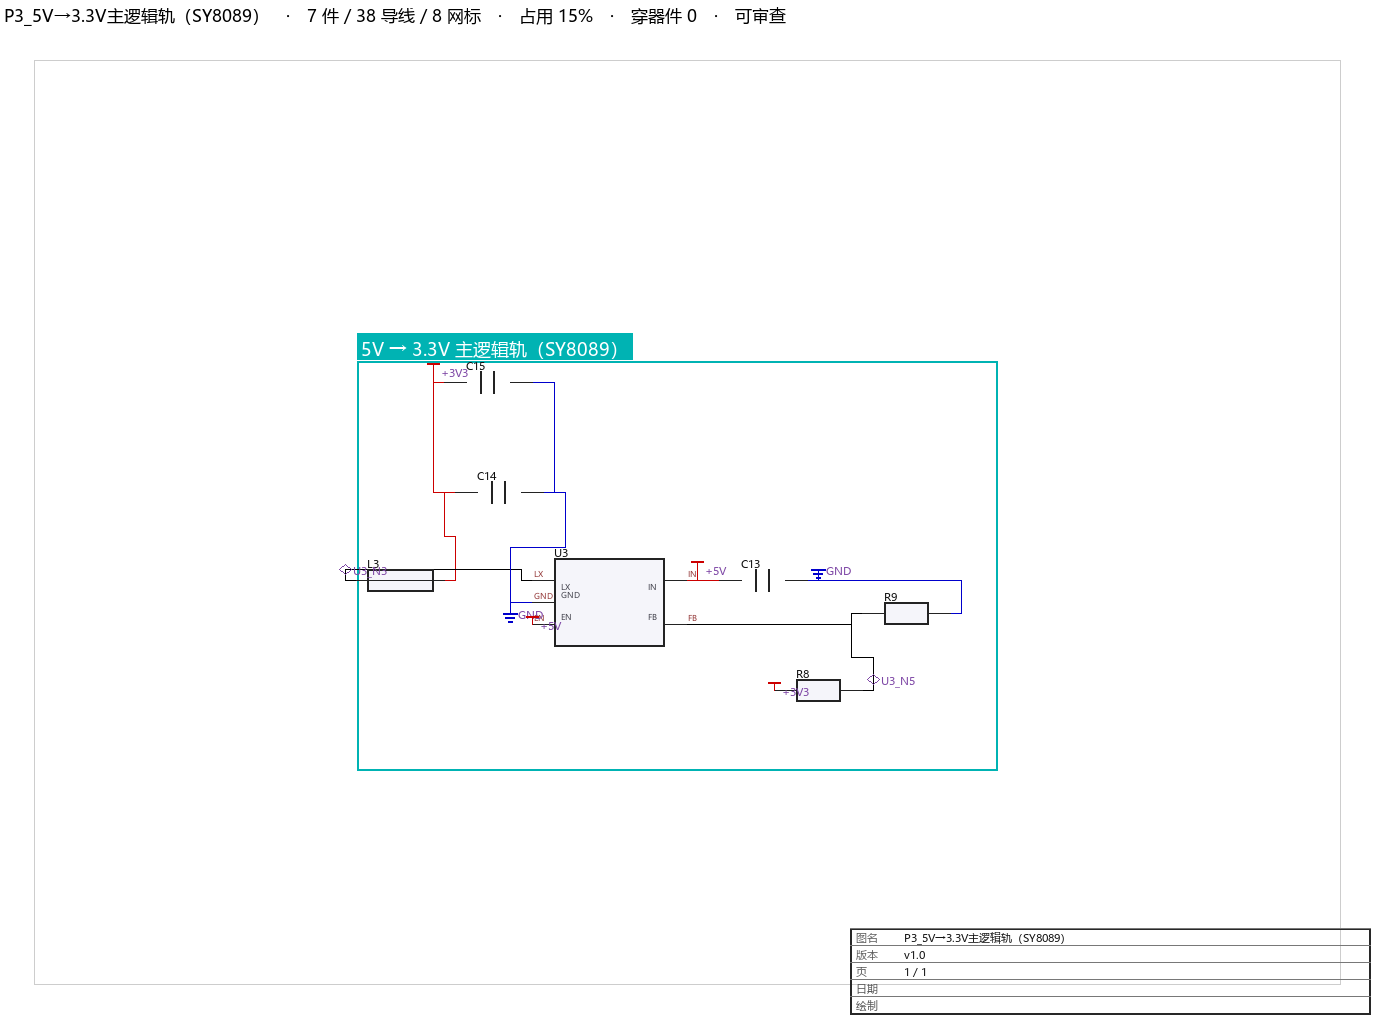
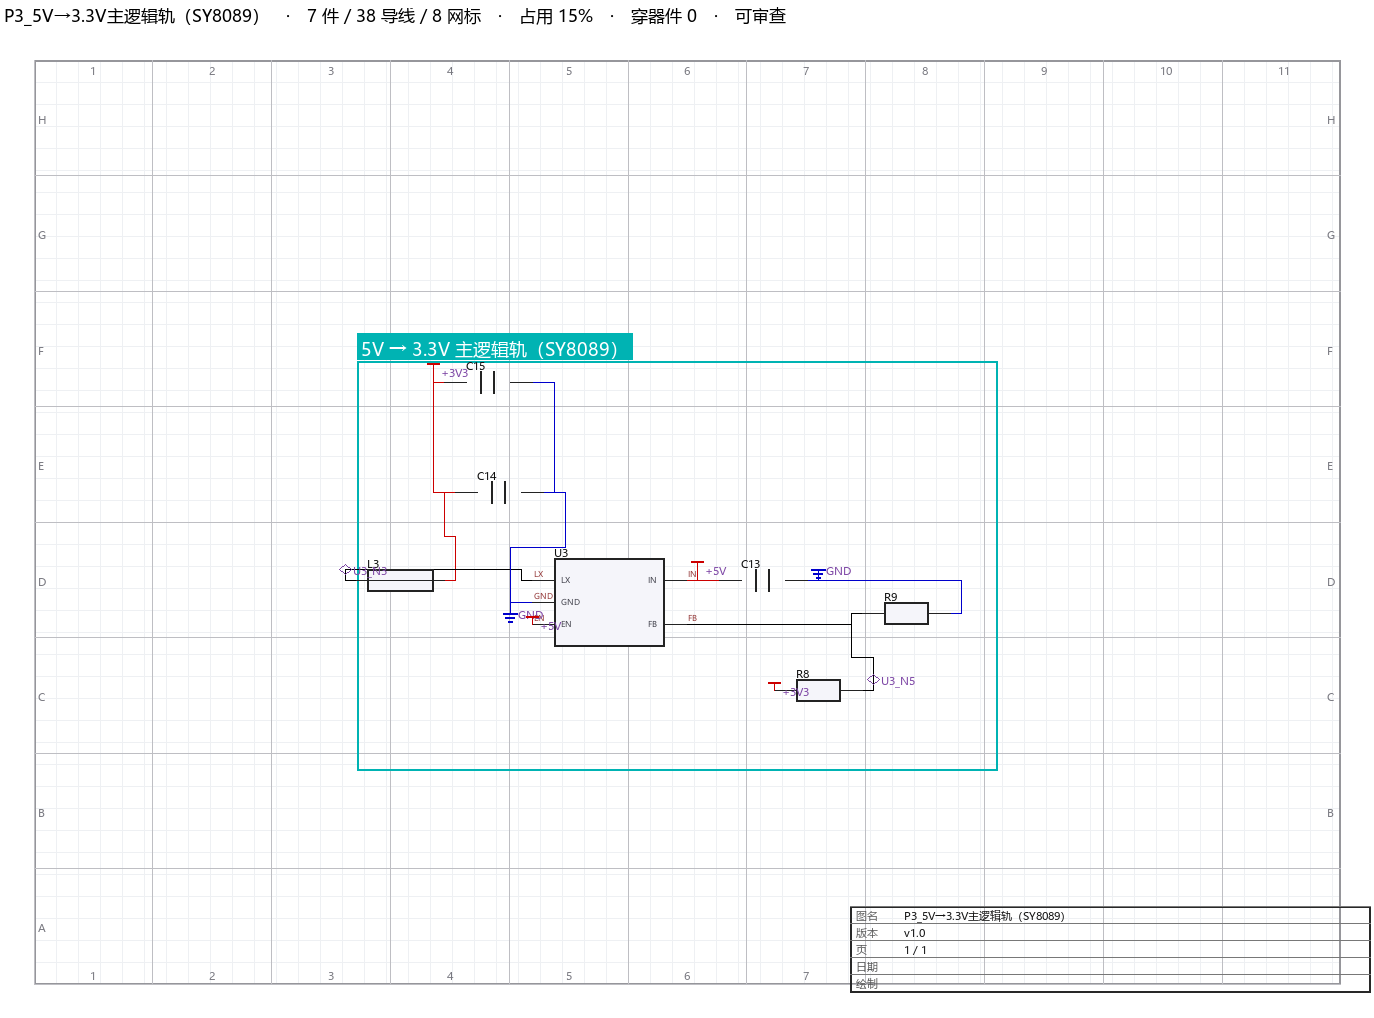
the sheet itself now looks like a drawing sheet: grid, rulers, and a title block that does not overlap them
Last round drew symbols; this round draws the sheet. A light grid at the interval the style tokens specify, an outer border with column numbers along the top and bottom and row
letters down both sides, and pin names aligned to a fixed inset per edge instead of drifting with each pin.

Two overlaps only showed up when I looked at the render. The title block sat directly on the bottom border, so the ruler numbers 8 through 11 were printed through the
table headers; it now lifts clear of the ruler band and ruler numbers falling inside the block's span are skipped. The right-hand row letter was printed on top of the title
block for the same reason and is now suppressed there.

Neither was reported by any checker. That is now the third round in a row where looking at the output found what the criteria could not, which is the honest limit of
criteria: they falsify known defect classes, they do not tell you whether a drawing looks like a drawing.

One test is new for a specific reason. test_render_is_deterministic renders the same input twice and requires identical hashes. Last round I used 'the image hash did not
change' as proof that a change had no effect - that evidence is only meaningful if rendering is deterministic, so it is now asserted instead of assumed.

Six tests pin the sheet: the grid reads the tokens, rulers exist for both axes, the title block clears the bottom ruler, side letters avoid the title block, pin names align
[…]

Changed region(s): [[0.6114, 0.8831, 1.0, 1.0], [0.3974, 0.5786, 0.4279, 0.609]]

diff --git a/easycirq/scripts/sch_layout_review.py b/easycirq/scripts/sch_layout_review.py
@@ -296,12 +296,15 @@ def draw_symbol(d, px, ref, box, pins, f_tiny, f_small, body_edge, body_fill):
                 qx, qy = q["x"], q["y"]
                 tx = min(max(qx, x1), x2)
                 ty = min(max(qy, y1), y2)
-                ix = tx + (3.0 if tx <= cx else -3.0)
-                iy = ty + (3.0 if ty <= cy else -3.0)
+                # 引脚名/号**对齐成列**：名字贴固定内缩列，号贴固定外偏列，
+                # 不随引脚 jitter（否则一列字看起来是歪的）
+                inset = 3.0
+                ix = x1 + inset if side == "L" else (x2 - inset if side == "R" else tx)
+                iy = y1 + inset if side == "B" else (y2 - inset if side == "T" else ty)
                 gx, gy = px(ix, iy)
                 if show_name and q["name"]:
                     tw = d.textlength(q["name"], font=f_tiny)
-                    d.text((gx - (tw if ix > cx else 0), gy - 6), q["name"],
+                    d.text((gx if side == "L" else gx - tw, gy - 6), q["name"],
                            fill=(70, 70, 80), font=f_tiny)
                 if q["number"]:
                     ox, oy = px(qx, qy)
@@ -365,7 +368,54 @@ def render(doc, parts, wires, flags, modules, page_name, out_path, q):
         # EasyEDA 原理图是 y-UP，图片是 y-DOWN → 翻转
         return (pad + (x - minx) * scale, pad + 26 + (maxy - y) * scale)
 
-    d.rectangle([px(minx, maxy), px(maxx, miny)], outline=THEME["sheet"], width=1)
+    # ── 网格底纹：每 10 raw 一条，浅到不影响读图 ────────────────────
+    grid_raw = float(((tokens.get("sheet") or {}).get("grid_mil") or 10))
+    if grid_raw <= 0:
+        grid_raw = 10.0
+    grid_col = (238, 240, 243)
+    gx = minx
+    while gx <= maxx + 1e-6:
+        d.line([px(gx, miny), px(gx, maxy)], fill=grid_col, width=1)
+        gx += grid_raw
+    gy = miny
+    while gy <= maxy + 1e-6:
+        d.line([px(minx, gy), px(maxx, gy)], fill=grid_col, width=1)
+        gy += grid_raw
+
+    # ── 图纸边框 + 行列标尺（A/B/C… 与 1/2/3…）──────────────────────
+    d.rectangle([px(minx, maxy), px(maxx, miny)], outline=(150, 150, 155), width=2)
+    sheet_w = maxx - minx
+    sheet_h = maxy - miny
+    cells_x = max(1, int(sheet_w // 50))
+    cells_y = max(1, int(sheet_h // 50))
+    # 图签水平范围（与下方图签公式保持一致，供标尺避让）
+    tb_left = w - int(min(w * 0.42, 520)) - pad
+    tb_right = w - pad
+    for i in range(cells_x):
+        x0 = minx + sheet_w * i / cells_x
+        x1 = minx + sheet_w * (i + 1) / cells_x
+        d.line([px(x0, miny), px(x0, maxy)], fill=(190, 190, 195), width=1)
+        cx0 = px((x0 + x1) / 2, maxy)[0]
+        d.text((cx0 - 3, px(x0, maxy)[1] + 3), str(i + 1), fill=(120, 120, 128),
+               font=f_small)
+        # 图签会盖住右下角一段底部标尺 —— 落在它范围内的数字直接不画，
+        # 免得和表头文字叠在一起
+        if not (tb_left <= cx0 <= tb_right):
+            d.text((cx0 - 3, px(x0, miny)[1] - 16), str(i + 1),
+                   fill=(120, 120, 128), font=f_small)
+    for j in range(cells_y):
+        y0 = miny + sheet_h * j / cells_y
+        y1 = miny + sheet_h * (j + 1) / cells_y
+        d.line([px(minx, y0), px(maxx, y0)], fill=(190, 190, 195), width=1)
+        cy0 = px(minx, (y0 + y1) / 2)[1]
+        letter = chr(ord("A") + j % 26)
+        d.text((px(minx, y0)[0] + 4, cy0 - 6), letter, fill=(120, 120, 128),
+               font=f_small)
+        # 右侧行标若落在图签纵向范围内就不画，免得压在表头上
+        tb_top = h - 86 - pad - 22
+        if cy0 < tb_top - 4:
+            d.text((px(maxx, y0)[0] - 14, cy0 - 6), letter, fill=(120, 120, 128),
+                   font=f_small)
 
     # 模块框 + **色块标题**（基准图的视觉语言：大字号区名放在框角）
     zone_font = font(max(13, min(18, int(typo.get("zone_title", {}).get("max", 16)))))
@@ -445,7 +495,9 @@ def render(doc, parts, wires, flags, modules, page_name, out_path, q):
     # 这里只写**已知**信息；不知道的留空，不编造。
     tb_w = int(min(w * 0.42, 520))
     tb_h = 86
-    x0, y0 = w - tb_w - pad, h - tb_h - pad
+    # 底部有标尺带，图签要让开它（实测压住过 8/9/10/11 这些数字）
+    ruler_band = 22
+    x0, y0 = w - tb_w - pad, h - tb_h - pad - ruler_band
     d.rectangle([x0, y0, x0 + tb_w, y0 + tb_h], outline=(40, 40, 40), width=2)
     rows = [
         ("图名", page_name or "（未命名）"),

diff --git a/tests/test_preview_sheet.py b/tests/test_preview_sheet.py
@@ -1,0 +1,72 @@
+"""图纸语言（网格/标尺/图签避让）的回归测试。
+
+基准图的图纸特征：浅网格、外框 + 行列标尺、右下角图签。
+本轮补上，并踩到两处重叠：图签压底部标尺、右侧行标压图签。
+这些测试钉住"不许再压"。
+"""
+import pathlib
+import sys
+
+import pytest
+
+ROOT = pathlib.Path(__file__).resolve().parent.parent
+sys.path.insert(0, str(ROOT / "easycirq" / "scripts"))
+import sch_layout_review as R  # noqa: E402
+
+SRC = ROOT / "easycirq" / "scripts" / "sch_layout_review.py"
+
+
+def test_grid_uses_style_tokens():
+    """网格间距来自 tokens 的 sheet.grid_mil，不硬编码另一套。"""
+    s = SRC.read_text(encoding="utf-8")
+    assert "grid_mil" in s, "网格没有读 tokens"
+    assert "grid_raw" in s
+
+
+def test_rulers_exist_for_columns_and_rows():
+    s = SRC.read_text(encoding="utf-8")
+    assert "cells_x" in s and "cells_y" in s, "缺行列标尺"
+    assert 'ord("A")' in s, "行标不是字母"
+
+
+def test_title_block_clears_bottom_ruler():
+    """图签要让开底部标尺带（实测压住过 8/9/10/11）。"""
+    s = SRC.read_text(encoding="utf-8")
+    assert "ruler_band" in s, "图签没有为标尺让位"
+    assert "tb_left" in s and "tb_right" in s, "底部标尺没有按图签范围避让"
+
+
+def test_side_letters_avoid_title_block():
+    """右侧行标不许压在图签上。"""
+    s = SRC.read_text(encoding="utf-8")
+    assert "tb_top" in s, "行标没有按图签范围避让"
+
+
+def test_pin_names_align_into_columns():
+    """引脚名对齐成列（按边固定内缩），不随引脚 jitter。"""
+    s = SRC.read_text(encoding="utf-8")
+    assert "inset = 3.0" in s
+    assert 'side == "L"' in s and 'side == "R"' in s
+
+
+def test_render_is_deterministic():
+    """同样的输入必须画出同样的图（否则哈希不能当证据）。"""
+    comp = ROOT / "reports" / "hard-board" / "board2" / "composition-M3-placed.json"
+    if not comp.is_file():
+        pytest.skip("没有排版稿")
+    import hashlib
+    import json
+    import tempfile
+    doc = json.loads(comp.read_text(encoding="utf-8"))
+    parts, wires, flags, modules = R.extract(doc)
+    sheet = doc["sheet"]
+    q = R.quality(parts, wires, sheet)
+    hashes = []
+    for _ in range(2):
+        with tempfile.TemporaryDirectory() as d:
+            out = pathlib.Path(d) / "x.png"
+            R.render(doc, parts, wires, flags, modules, "P", out, q)
+            if not out.is_file():
+                pytest.skip("渲染不可用（缺 Pillow）")
+            hashes.append(hashlib.sha256(out.read_bytes()).hexdigest())
+    assert hashes[0] == hashes[1], "同一输入两次渲染不一致"

diff --git a/reports/hard-board/board1/friction.md b/reports/hard-board/board1/friction.md
@@ -3007,3 +3007,49 @@ D1/D2 是二极管；L1 是电感；J1/J2 是连接器；+5V 是横杠、GND 是
 
 `extract_pins` 不改原数据、方框前缀清单正确、三种专属画法都在、
 分边按最近边、密度阈值存在、电源/地是标准符号。
+
+
+---
+
+## #66 补上图纸语言：网格、行列标尺、引脚列对齐
+
+上轮补了符号，本轮补**图纸本身的样子**。基准图的图纸特征有三样我都没有：
+浅网格、外框 + 行列标尺（A/B/C… 与 1/2/3…）、右下角图签（图签上轮已加）。
+
+### 改了什么
+
+| 项 | 来源 | 实现 |
+|---|---|---|
+| 浅网格 | tokens `sheet.grid_mil = 10` | 每 10 raw 一条，颜色 (238,240,243)，不干扰读图 |
+| 外框 + 行列标尺 | 基准图 | 外框加粗；列 1..N 上下、行 A..H 左右各标一次 |
+| 引脚名/号对齐成列 | 基准图 | 名字按边**固定内缩 3 raw**，不再随引脚 jitter |
+
+### 又踩到两处"画出来才看得见"的重叠
+
+| 缺陷 | 现象 | 修法 |
+|---|---|---|
+| 图签压底部标尺 | 底部的 8/9/10/11 直接画在表头上 | 图签上移 22 px 让开标尺带；落在图签范围内的标尺数字不画 |
+| 右侧行标压图签 | 字母 A 画在表头里 | 行标的 y 落在图签范围就不画 |
+
+**这两处都不是检查器报的，是看出来的。** 又一次印证：判据只能证伪已知类型，
+图纸"像不像"必须靠眼睛。
+
+### 顺手加的确定性测试
+
+`test_render_is_deterministic`：同一输入两次渲染必须得到同一哈希。
+理由很实在——上一轮我用"图片哈希没变"来证明改动没生效，
+那这个证据本身必须可靠；如果渲染不确定，哈希就没有意义。
+
+### 6 条测试
+
+网格读 tokens、行列标尺存在、图签让开底部标尺、行标避开图签、
+引脚名对齐成列、渲染确定性。
+
+### 与基准图剩余差距（更新）
+
+| 基准图 | 现状 |
+|---|---|
+| 电阻锯齿/标准体 | 仍是矩形（有引线）|
+| 晶振/三极管/运放专用符号 | 统一方框 |
+| 引脚名成整齐两列（密集处）| 已对齐到列，密集时仍挤 |
+| 图签日期/作者/版本来源 | 空着（不编造）|
